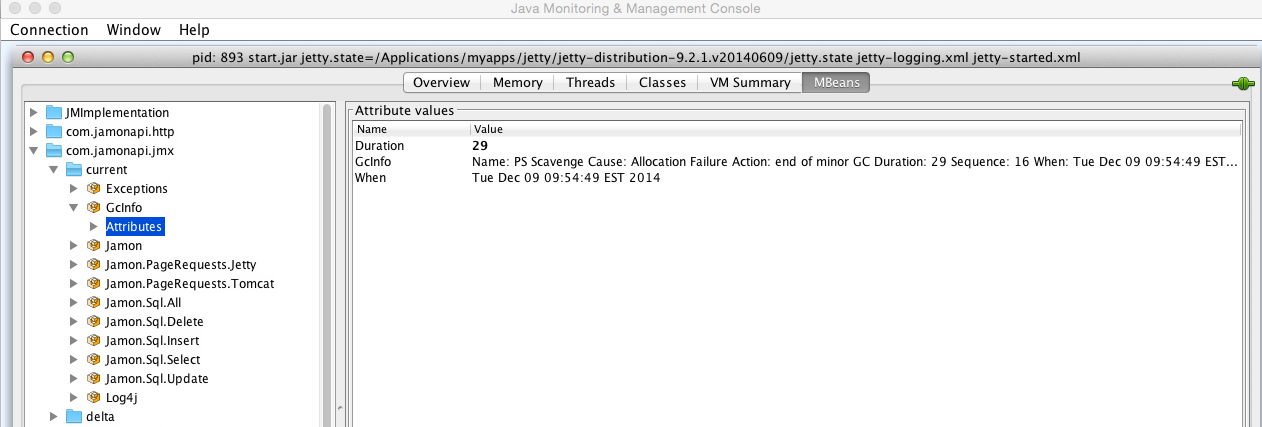
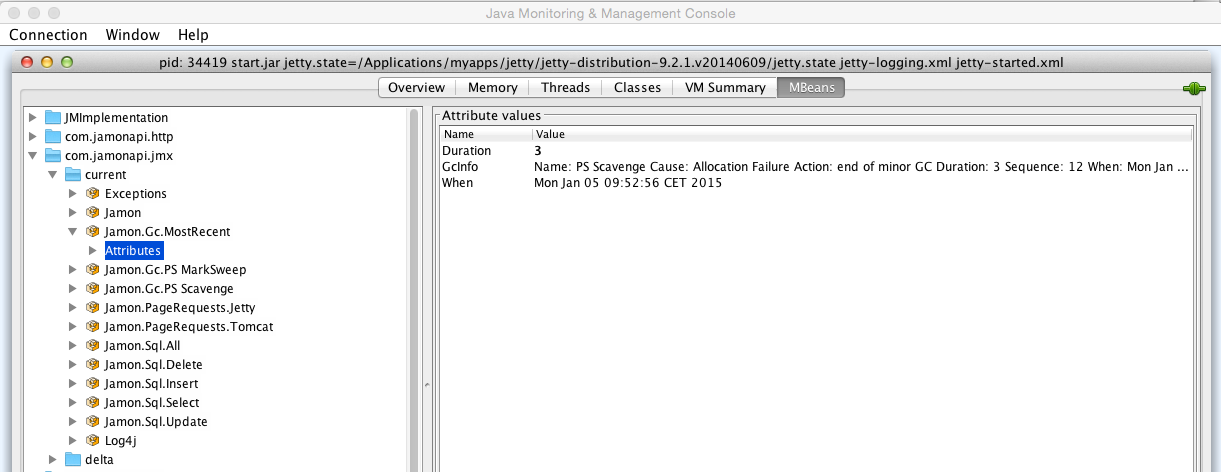
jmx - finalizing documentation for jmx capabilities

Changed region(s): [[0.0, 0.0, 1.0, 1.0]]

diff --git a/src/JAMonUsersGuide/jmx_jamon.html b/src/JAMonUsersGuide/jmx_jamon.html
@@ -40,16 +40,17 @@
 
 
             <p>The Java Management Extensions (JMX) technology is a standard part of the Java Platform.  With JMX developers can expose and manage their application
-            via any JMX enabled console (Examples of these consoles are jconsole and visualvm).  As of release 2.80 JAMon exposes the following through JMX:</p>
+            via any JMX enabled console (Examples of these consoles are jconsole and visualvm).</p>
 
-            <p>As of release 2.80 JAMon exposes the following through JMX (note all data is also viewable via the JAMon war):</p>
+            <p>As of release 2.80 JAMon allows all monitors to be viewed via a JMX console.  Some monitors are automatically displayed in the JMX console (for example Garbage Collection metrics),
+                and others would need to be explicitly included (Note: All JAMon data is also viewable via the JAMon war).  A summary of JAMon's JMX capabilities follows:</p>
             <ol>
-                <li><a href="#log4j">Log4j</a> - Counts for calls at the various log levels: TRACE, DEBUG, WARNING, INFO, ERROR, FATAL,...</li>
+                <li><a href="#log4j">Log4j</a> - Counts for for Log4j log levels: TRACE, DEBUG, WARNING, INFO, ERROR, FATAL,...</li>
                 <li><a href="#pagerequests">HTTP Page Requests</a> - Metrics for page hits in a web application.  Metrics include count, average time, total time, max time, min time and more.</li>
                 <li><a href="#sql">SQL</a> - Metrics for SQL statements including select, insert, delete, update and more.  Metrics include count, average time, total time, max time, min time and more.</li>
                 <li><a href="#exceptions">Exceptions</a> - A count of exceptions thrown by the application.  You can also view the most recent stack trace.</li>
-                <li><a href="#gc">Garbage Collection info</a> - For Oracle JVM's metrics for the garbage collector are automatically stored in JAMon.  This allows developers to look at details of the
-                garbage collector without grepping a log.  It also tracks the following garbage collector metrics: how often it fires, how long it takes, how much memory it frees and more.</li>
+                <li><a href="#gc">Garbage Collection info (For Oracle JVM's)</a> -  Metrics for the garbage collector are automatically stored in JAMon.  This allows developers to look at details of the
+                garbage collector without grepping a log.  It tracks the following garbage collector metrics: how often it fires, how long it takes, how much memory it frees and more.</li>
                 <li><a href="#custommetrics">JAMon Custom Metrics</a> - Developers can easily expose any JAMon monitor to JMX by simply adding the monitor label, and units to the jamonapi.properties file.</li>
                 <li><a href="#managing">Managing JAMon</a> - The following functions can be performed via a JMX enabled gui such as jconsole: Enable/Disable/Reset JAMon monitors</li>
                 <li><a href="#deltas">Deltas</a> - Display how much the JAMon monitors have changed (delta) since the last time the monitor was viewed.</li>
@@ -70,7 +71,7 @@
     <li>To enable this capability <a href="http_monitoring.html">JAMon http monitoring</a>
     must be enabled.</li>
     <li>If the web container is Jetty then the the JMX labeled 'Jamon.PageRequests.Jetty' will have metrics in it, and if Tomcat is the container then 'Jamon.PageRequests.Tomcat'
-    will be the label.  Note: If you are using a different web container you can still track page request metrics by using <a href="#custommetrics">JAMon Custom Metrics</a>.</li>
+    will have metrics.  Note: If you are using a different web container you can still track page request metrics by using <a href="#custommetrics">JAMon Custom Metrics</a>.</li>
     <li>As you can see below the following are tracked for the page requests: hits, average execution time, max execution time and all the other standard JAMon metrics.  '_Count08_640_1280ms'
     contains the count of page hits that took between 640 and 1280 ms.  The same principal applies to the other similarly named fields.</li>
     </ul>
@@ -109,22 +110,25 @@
 <p> This section represents information associated with garbage collection invocations.
 <ul>
     <li>This capability only works for the Oracle JVM</li>
-    <li>As you can below the following metrics are tracked for the most recent GC firing: duration in ms., when the invocation occured, metadata associated with he GC firing.</li>
-</ul>
-
-<p><img src="jamon_jmx_gc.png" border="1"></p>
-
-
-<p>By viewing JAMon data via the JAMon war you will be able to see even more information associated with the garbage collector.
-    <ul><li>For example
-the following image shows the JAMon monitors that track performance of each of the types of garbage collector that fired.</li>
-    <li>In this case minor and major collections occured.  Depending on how you configured your garbage collector different data
-may appear for you. These monitors indicate the duration in ms. of the GC invocations. </li>
-    <li>You can see that a MarkSweep collector was invoked 6 times and the Scavenge collector was invoked 8 times.</li>
+    <li>The following metrics are tracked for the most recent GC firing: duration in ms., when the invocation occured, metadata associated with he GC firing.</li>
+    <li>For each type of GC type (i.e. Scavenge, MarkSweep/Full) detailed metrics are tracked: hits, average execution time, max execution time and all the other standard JAMon metrics. </li>
 </ul>
 </p>
 
+<p><img src="jamon_jmx_gc.png" border="1"></p>
+
+<p>The JMX console also displays aggregate statistics (duration in ms.) for each type of Garbage Colleciton that has occurred (i.e. Scavenge, MarkSweep/Full).  An example for 'Scavenge' appears
+below.</p>
+
+<p><img src="jamon_jmx_gc_scavenge.png" border="1"></p>
+
+
+<p>Of course you can also see this informat in the JAMon web application. The following shows
+    that a MarkSweep collector was invoked 6 times and the Scavenge collector was invoked 8 times.
+</p>
+
     <p><img src="jamon_jmx_gc_time.png" border="1"></p>
+
 
 <p>In addition to the aggregates mentioned above, JAMon also tracks the details of each individual GC invocation via
     <a href="jamonlisteners.html#example">JAMon's buffer listener</a> capabilities.  Listeners can be configured in the
@@ -137,25 +141,23 @@ may appear for you. These monitors indicate the duration in ms. of the GC invoca
 
     <p><img src="jamon_jmx_gc_details.png" border="1"></p>
 
-<p>In addition to tracking the frequency and duration of the GC invocations JAMon JMX also tracks the memory consumed (in bytes) by Java different memory pools after the GC was firing (AfterGc).  Note all
-    GC related data shows up in the JAMon display screen if you filter by 'gc'.  A snapshot of this data is in the image below.  Note you can also attach a JAMon Buffer listener to all the
-    GC data in the report below.
+<p>In addition to tracking the frequency and duration of the GC invocations JAMon JMX also tracks the memory consumed (in bytes) by Java different memory pools after the GC was fired (AfterGc).  Note all
+    GC related data shows up in the JAMon display screen if you filter by 'gc'.  A snapshot of this data is in the image below.
 </p>
 
 <p><img src="jamon_jmx_gc_mem.png" border="1"></p>
 
 <h2><a name="custommetrics">6. JAMon Custom Metrics</a></h2>
 
-<p>Developers can use JAMon's custom JMX metrics capabilities to add any JAMon monitor to JMX. In fact that is exactly how any of the JMX entries that start with 'Jamon.' were added.
+<p>Developers can use JAMon's custom JMX metrics capabilities to add any JAMon monitor to JMX. In fact that is exactly how the JMX entries we have discussed that start with 'Jamon.' were added.
     For example <a href="#pagerequests">'Jamon.PageRequests.Jetty'</a> was added this way.  To add your own custom JMX monitors simply add them to the
     <a href="https://sourceforge.net/p/jamonapi/jamonapi/ci/master/tree/jamon/src/test/resources/jamonapi.properties">jamonapi.properties</a> file.  Below you can
     see how many of the custom metrics discussed in this document are configured.  Note each custom metric has to have the exact JAMon monitor label and units (comma delimited).
-    Optionally if you
-    would like it to appear with a different (more readable) name in JMX then you can provide a name.  By convention the name should start with 'Jamon.'.
+    Optionally if you would like the JMX label to appear with a different (more readable) name in JMX then this can also be provided.  By convention the name should start with 'Jamon.'.
 </p>
 
-<p>Note if you provide one custom JAMon JMX monitor and you want then you are taking ownership of ALL custom monitors.  This means that if yo would like any of the other 'Jamon.' custom
-JMX metrics to still appear they must also be in the jamonapi.properties file.</p>
+<p>Note if you provide one custom JAMon JMX monitor then you are taking ownership of ALL custom monitors.  This means that if you would like any of the other 'Jamon.' custom
+JMX metrics discussed above to still appear they must also be in the jamonapi.properties file.</p>
 
 <p><img src="jamon_jmx_custommetrics.png" border="1"></p>
 
@@ -166,7 +168,7 @@ JMX metrics to still appear they must also be in the jamonapi.properties file.</
     <p><img src="jamon_jmx_managing.png" border="1"></p>
 
 <h2><a name="deltas">8. Deltas</a></h2>
-<p>Normally JAMon numbers continually grow.  Deltas allow a developer to tell how much the JAMon metrics have changed since the
+<p>Normally JAMon numbers continually grow.  The 'Delta' capability allows a developer to determine how much the JAMon metrics have changed since the
 last time they were checked.  All 'Delta' JMX beans reside within the 'deltas' jmx directory structure as seen below.
 </p>
 
@@ -176,8 +178,8 @@ had been called in between refreshes then all the numbers would be 0.</p>
 
 <p><img src="jamon_jmx_deltas_log4j.png" border="1"></p>
 
-<p>The following shows changes in jetty page hits since the 'refresh' button was last clicked.  So 15 page hits occurred during this time interval, and
-their average time per invocation was 73.3 ms. </p>
+<p>The following shows changes in jetty page hits since the 'refresh' button was last clicked.  So 3 page hits occurred during this time interval, and
+their average time per invocation was 102 ms. </p>
 
     <p><img src="jamon_jmx_deltas.png" border="1"></p>
 

diff --git a/src/JAMonUsersGuide/index.html b/src/JAMonUsersGuide/index.html
@@ -29,25 +29,31 @@
 
 
 <!-- START JAMON SPECIFIC HTML -->
-<p>JAMon comes with several ways to monitor your application that require no application code changes.
-    Usually all that is required is to add a line to an xml file, and put the jamon jar file in your classpath.
-    You could be monitoring your code in a few minutes.
+<p>JAMon comes with several ways to monitor your application that require no application code changes.  Usually all that is required is to...
+    <ul>
+    <li>add a line to an xml file,</li>
+    <li>put the jamon jar file in your classpath, </li>
+    <li>and install the JAMon war to view JAMon metrics/monitors (or you
+    can view the metrics in a JMX console like jconsole).</li>
+    </ul>
+See <a href="http_monitoring.html">HTTP Monitoring</a> for directions on how to monitor page requests in your web server.
+    You could be monitoring your code in a few minutes.  Happy monitoring!
 </p>
 
-<ul> <li> Some JAMon highlights follow:</li>
+<p>Some JAMon highlights follow:
     <ul>
-        <li><a href="distributed_jamon.html">Distributed Applications</a> - View all the data from your organizations applications from a central monitoring web application (the JAMon web application).</li>
+        <li><a href="distributed_jamon.html">Distributed Application Monitoring</a> - View all the data from your organizations applications from a central monitoring web application (the JAMon web application).</li>
         <li><a href="http_monitoring.html">HTTP Monitoring</a> - Monitor requests/responses to Tomcat, Jetty, JBoss or any other JAVA web container. Track page execution times, status codes,
             bytes sent, exceptions thrown and more.</li>
-        <li><a href="spring_aop_monitoring.html">Spring</a> - Monitor any Spring bean.  Track method invocations, arguments passed to methods, and  exceptions thrown.</li>
+        <li><a href="spring_aop_monitoring.html">Spring Monitoring</a> - Monitor any Spring bean.  Track method invocations, arguments passed to methods, and  exceptions thrown.</li>
         <li><a href="#monitoringsqlcommands">JDBC/SQL monitoring</a> - via the JAMon JDBC proxy driver (works with any other JDBC driver). Track SQL called, JDBC method calls, exceptions thrown and more.</li>
-        <li><a href="log4j_jamonappender.html">Log4j</a> -  Monitor via the JAMon log4j Appender.  Track counts for ERROR, INFO, WARNING etc.  'Tail' the Log4j log from the JAMon web application</li>
-        <li><a href="#ejbmonitoring">EJB3</a> - Monitor EJBs using the JAMon EJB interceptor.</li>
-        <li><a href="jmx_jamon.html">JAMon JMX</a> - View JAMon data in a JMX tool like jconsole and visualvm.</li>
+        <li><a href="log4j_jamonappender.html">Log4j Monitoring</a> -  Monitor via the JAMon log4j Appender.  Track counts for ERROR, INFO, WARNING etc.  'Tail' the Log4j log from the JAMon web application</li>
+        <li><a href="#ejbmonitoring">EJB3 Monitoring</a> - Monitor EJBs using the JAMon EJB interceptor.</li>
+        <li><a href="jmx_jamon.html">JAMon JMX</a> - View JAMon data in a JMX tool like jconsole and visualvm. (2.80+)</li>
     </ul>
-</ul>
+</p>
 
-
+<p>The table of contents for JAMon documentaiton follows:</p>
 <table border="0" width="80%" align="center">
 <tr>
 </tr>
@@ -589,6 +595,8 @@ creation).</p>
       The most obvious use of this is to pass in table names and see how many times the table occurs in queries and what the performance characteristics of these queries is.  
       This can lead the way to detecting problem tables.  One row will show up in the JAMonAdmin report for each match. 
       Example - MonProxy-SQL-Match: SYSTEM_TYPEINFO
+        </li>
+        </ul>
 
 
     <p>SQL summary statistics are viewable via jamonadmin.jsp.</p>
